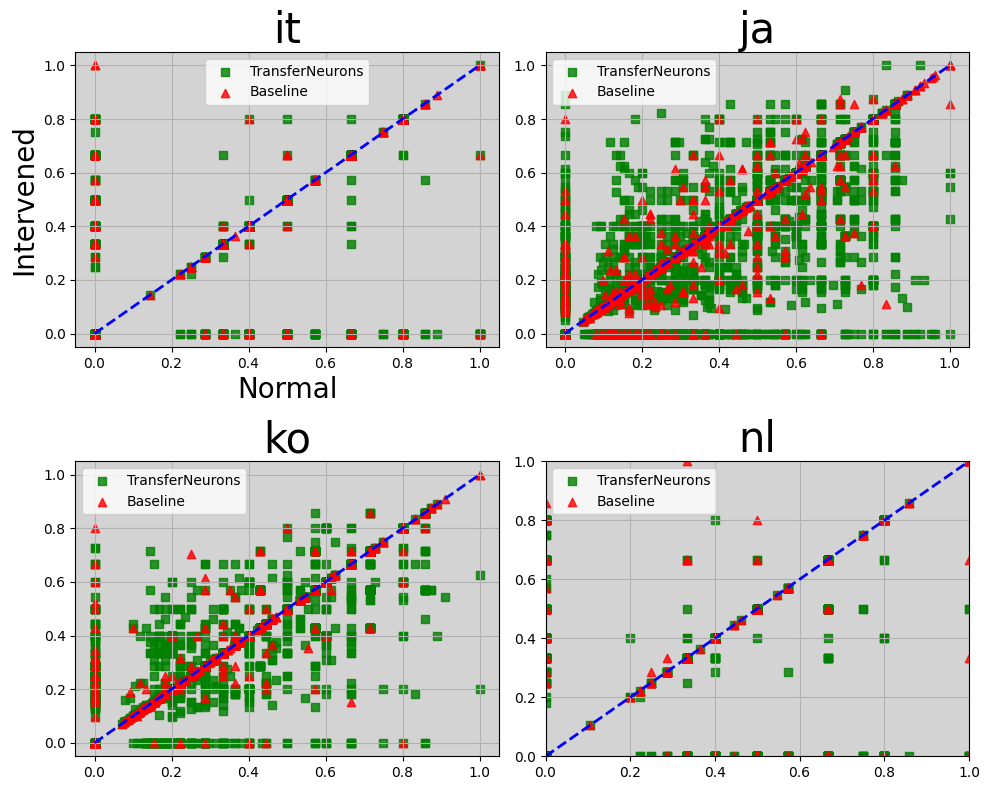
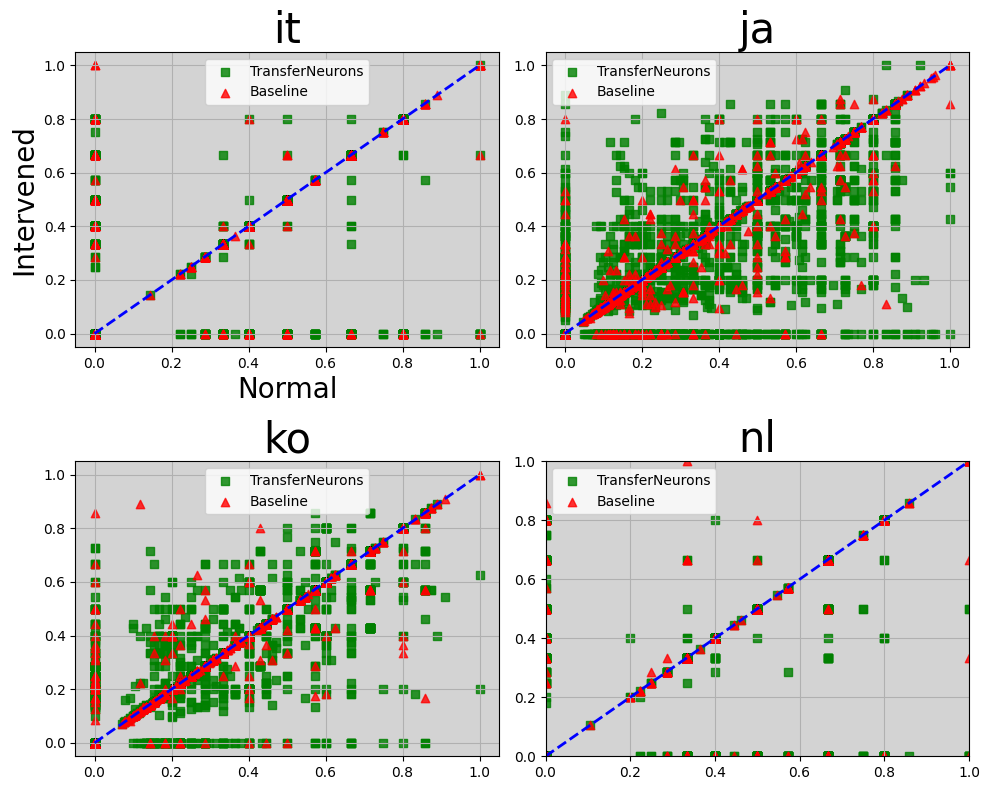
update

diff --git a/activated_neuron/new_neurons/transfer_neurons/qa/visualization.py b/activated_neuron/new_neurons/transfer_neurons/qa/visualization.py
@@ -53,18 +53,27 @@ for model_name in model_names:
         intervention_r = []
         intervention_baseline_r = []
 
-        def get_q_idx_and_f1(score_list, target_idx) -> tuple:
+        def get_q_idx_and_f1(score_list, target_idx):
             for q_idx, f1_score in score_list:
                 if q_idx == target_idx:
-                    return (q_idx, f1_score)
+                    return q_idx, f1_score
         
+        normal_scores = []
+        intervention_scores = []
+        intervention_baseline_scores = []
         for q_idx, f1_score in normal:
             if f1_score >= THRESHOLD:
+                n_score = f1_score
                 normal_r.append((q_idx, f1_score))
-                intervention_r.append(get_q_idx_and_f1(intervention, q_idx))
-                intervention_baseline_r.append(get_q_idx_and_f1(intervention_baseline, q_idx))
+                normal_scores.append(n_score)
+                i_idx, i_score = get_q_idx_and_f1(intervention, q_idx) # i_idx: q_idx(intervention), i_score: f1_score(intervention)
+                intervention_r.append((i_idx, i_score))
+                intervention_scores.append(i_score)
+                b_idx, b_score = get_q_idx_and_f1(intervention_baseline, q_idx) # b_idx: q_idx(intervention_baseline), b_score: f1_score(intervention_baseline)
+                intervention_baseline_r.append((b_idx, b_score))
+                intervention_baseline_scores.append(b_score)
         
-        return normal_r, intervention_r, intervention_baseline_r
+        return normal_r, intervention_r, intervention_baseline_r, np.mean(np.array(normal_scores)), np.mean(np.array(intervention_scores)), np.mean(np.array(intervention_baseline_scores))
 
     normal_dict = {}
     intervention_dict = {}
@@ -86,10 +95,11 @@ for model_name in model_names:
         intervention_baseline = unfreeze_pickle(intervention_baseline_path)
 
         # get q_idx and f1 above THRESHOLD.
-        normal_l, intervention_l, intervention_baseline_l = get_q_above_th(THRESHOLD, normal, intervention, intervention_baseline)
+        normal_l, intervention_l, intervention_baseline_l, normal_mean_score, intervention_mean_score, intervention_baseline_mean_score = get_q_above_th(THRESHOLD, normal, intervention, intervention_baseline)
         normal_dict[L2] = normal_l
         intervention_dict[L2] = intervention_l
-        intervention_baseline_dict[L2] = intervention_baseline_l    
+        intervention_baseline_dict[L2] = intervention_baseline_l
+        print(f'{model_type}, {L2}: normal:{normal_mean_score}, intervention:{intervention_mean_score}, intervention_baseline:{intervention_baseline_mean_score}')
 
     """ visualization. """
     def plot_intervention_scatter(dict_normal, dict_intervene1, dict_intervene2):
@@ -134,7 +144,7 @@ for model_name in model_names:
                     label=dict_labels[d_idx],
                     marker=markers[d_idx],
                     color=colors[d_idx],
-                    alpha=0.8
+                    alpha=0.8,
                 )
 
             # Plot y=x line for reference

diff --git a/activated_neuron/new_neurons/transfer_neurons/qa/mkqa_all_questions_aya.py b/activated_neuron/new_neurons/transfer_neurons/qa/mkqa_all_questions_aya.py
@@ -24,6 +24,7 @@ from qa_funcs import (
 model_names = ['CohereForAI/aya-expanse-8b']
 device = 'cuda' if torch.cuda.is_available() else 'cpu'
 langs = ['ja', 'nl', 'ko', 'it']
+langs = ['it', 'ko', 'nl', 'ja']
 
 """ 
 QA dataset: 
@@ -46,13 +47,14 @@ for model_name in model_names:
     model = AutoModelForCausalLM.from_pretrained(model_name).to(device)
     tokenizer = AutoTokenizer.from_pretrained(model_name)
 
-    # for L2 in langs:
-    #     # normal
-    #     result_scores = mkqa_all(model, tokenizer, device, qa, L2)
-    #     # save results as pkl.
-    #     path_normal = f'/home/s2410121/proj_LA/activated_neuron/new_neurons/pickles/transfer_neurons/{model_type}/qa/all_questions_normal_{L2}.pkl'
-    #     save_as_pickle(path_normal, result_scores)
-    #     print(f'saved: normal: {model_type}, {L2}')
+    for L2 in langs:
+        if L2 in ['it', 'ko']:
+            # normal
+            result_scores = mkqa_all(model, tokenizer, device, qa, L2)
+            # save results as pkl.
+            path_normal = f'/home/s2410121/proj_LA/activated_neuron/new_neurons/pickles/transfer_neurons/{model_type}/qa/all_questions_normal_{L2}.pkl'
+            save_as_pickle(path_normal, result_scores)
+            print(f'saved: normal: {model_type}, {L2}')
 
     for L2 in langs:
         """ intervention """
@@ -63,10 +65,11 @@ for model_name in model_names:
         intervened_neurons_path = f"/home/s2410121/proj_LA/activated_neuron/new_neurons/pickles/transfer_neurons/{model_type}/final_scores/{score_type}/{L2}_mono_train.pkl"
         intervened_neurons = unfreeze_pickle(intervened_neurons_path)
         intervened_neurons_main = intervened_neurons[:intervention_num]
-        # result_score_intervention = mkqa_all_with_edit_activation(model, tokenizer, device, qa, L2, intervened_neurons_main)
-        # path_intervention = f'/home/s2410121/proj_LA/activated_neuron/new_neurons/pickles/transfer_neurons/{model_type}/qa/intervention_n{intervention_num}/all_questions_intervention_{L2}.pkl'
-        # save_as_pickle(path_intervention, result_score_intervention)
-        # print(f'saved: intervention: {model_type}, {L2}')
+        if L2 == 'it':
+            result_score_intervention = mkqa_all_with_edit_activation(model, tokenizer, device, qa, L2, intervened_neurons_main)
+            path_intervention = f'/home/s2410121/proj_LA/activated_neuron/new_neurons/pickles/transfer_neurons/{model_type}/qa/intervention_n{intervention_num}/all_questions_intervention_{L2}.pkl'
+            save_as_pickle(path_intervention, result_score_intervention)
+            print(f'saved: intervention: {model_type}, {L2}')
 
         # intervention baseline.
         random.seed(42)
